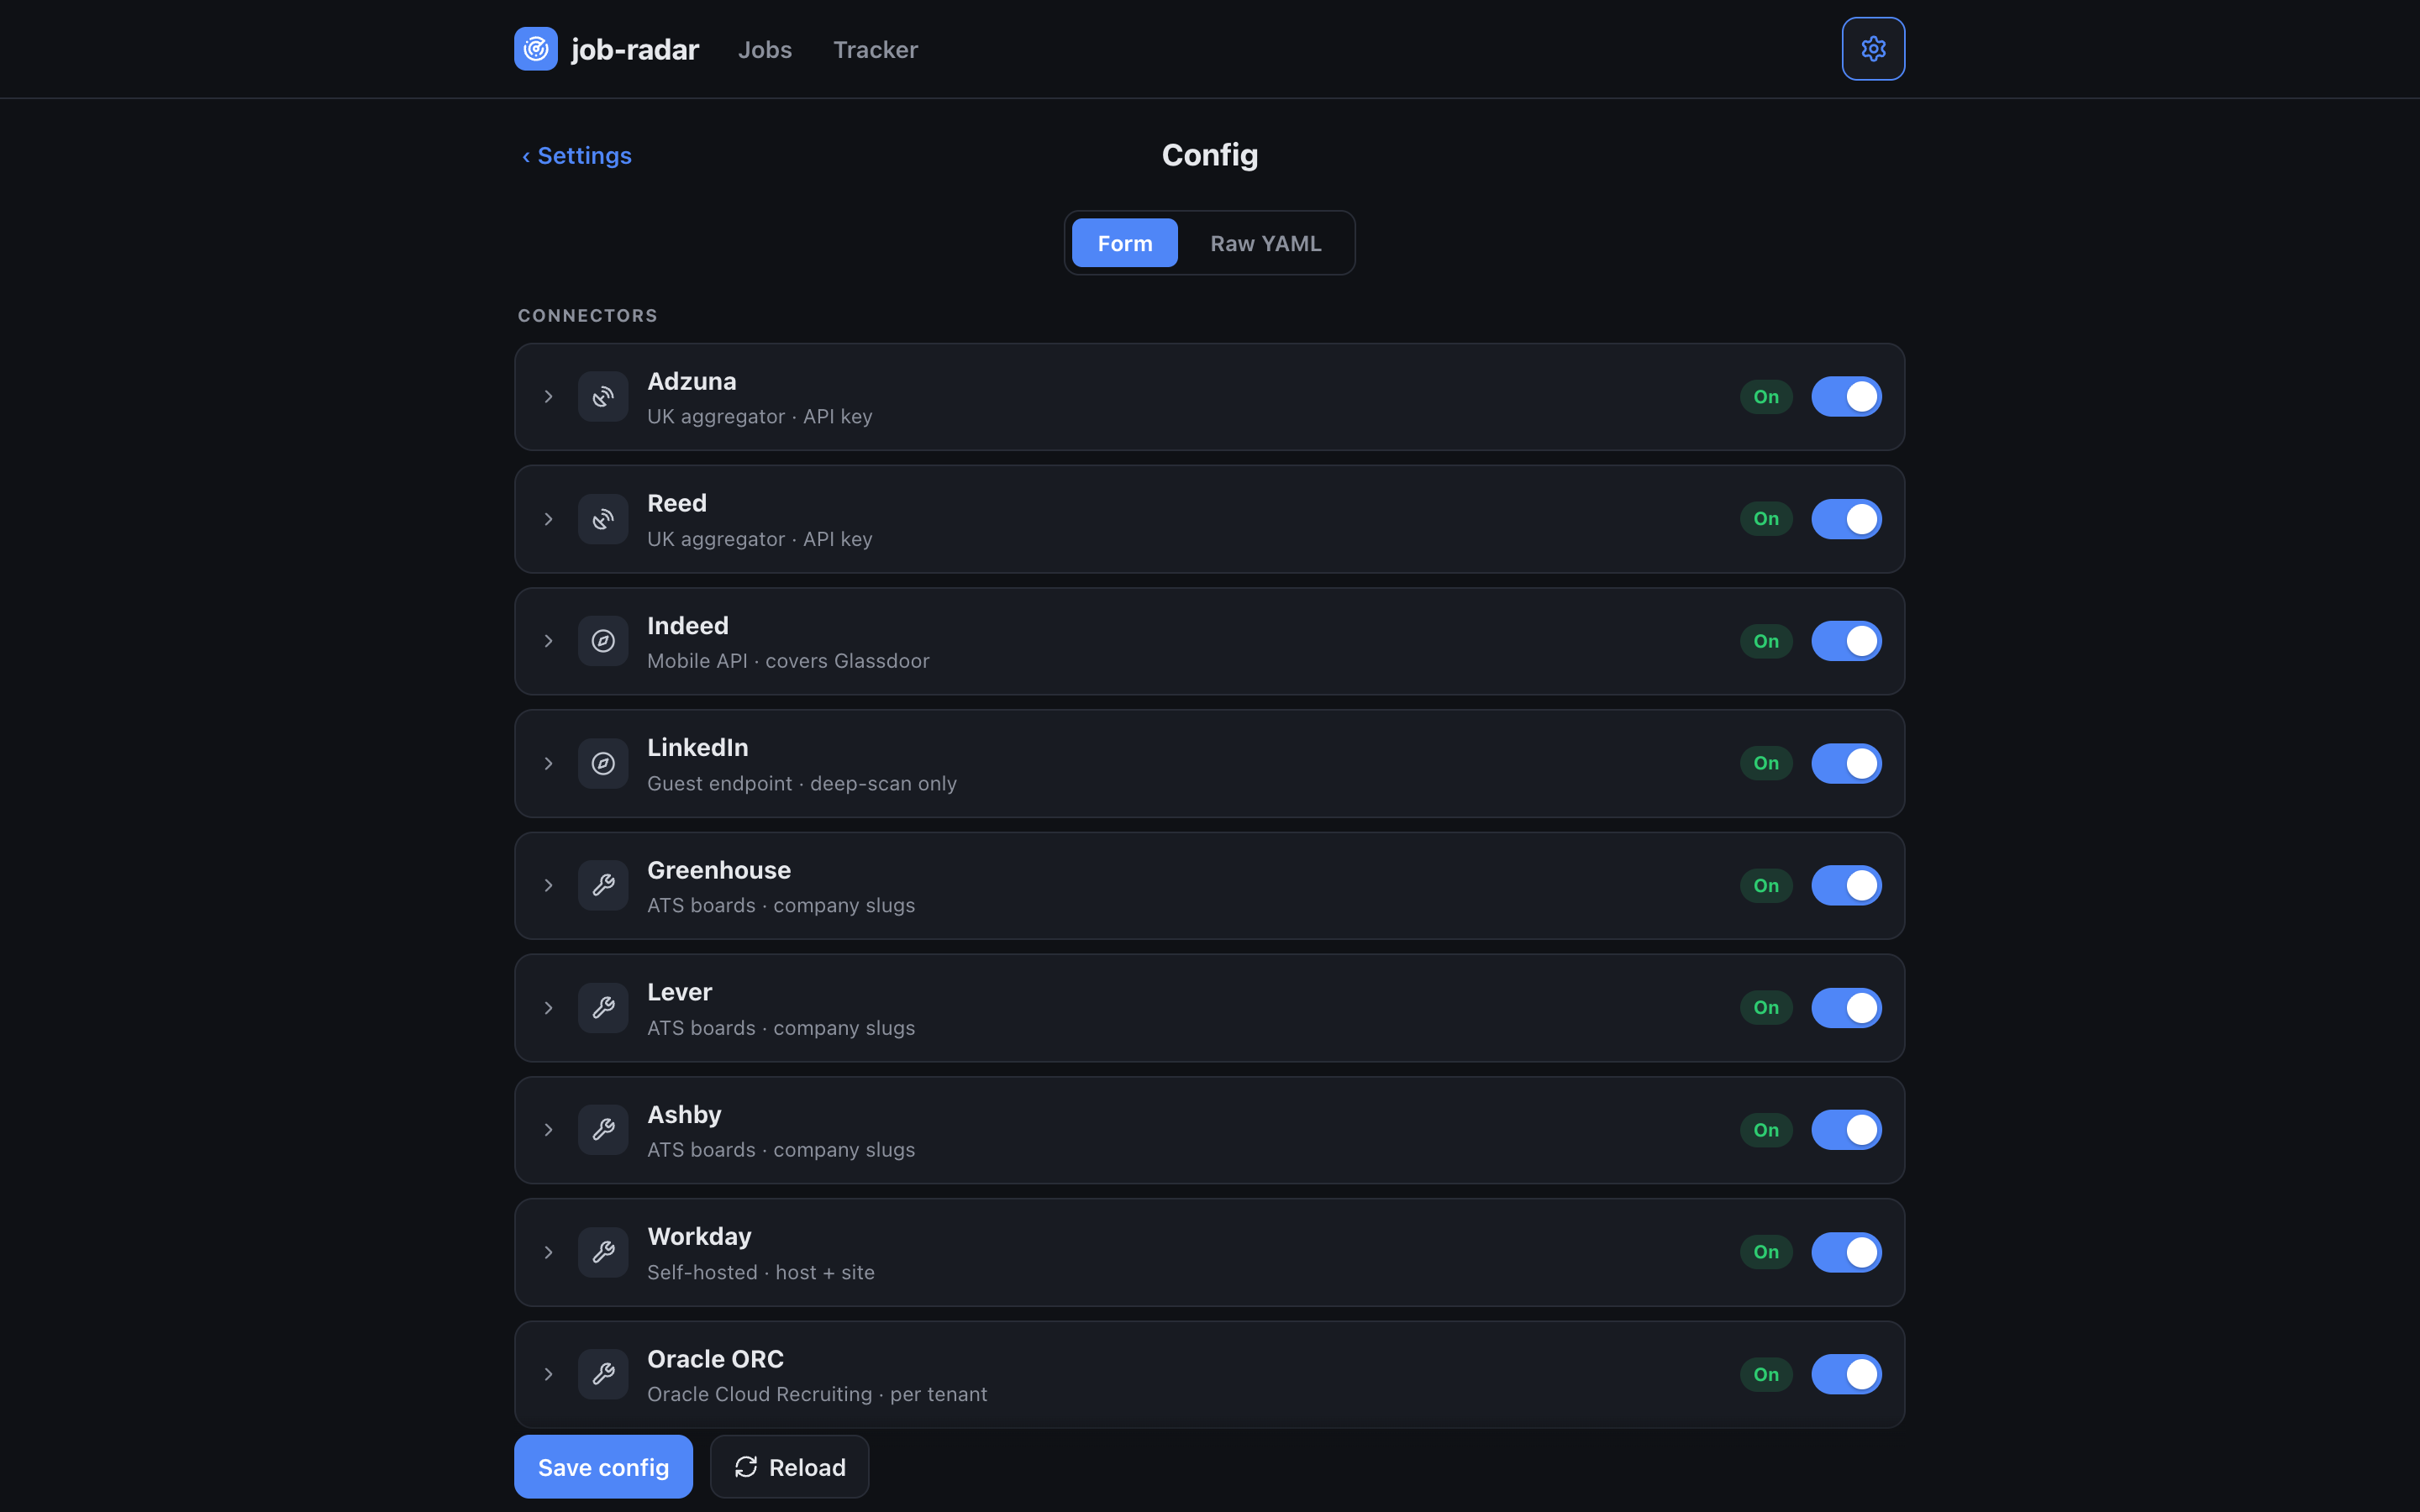
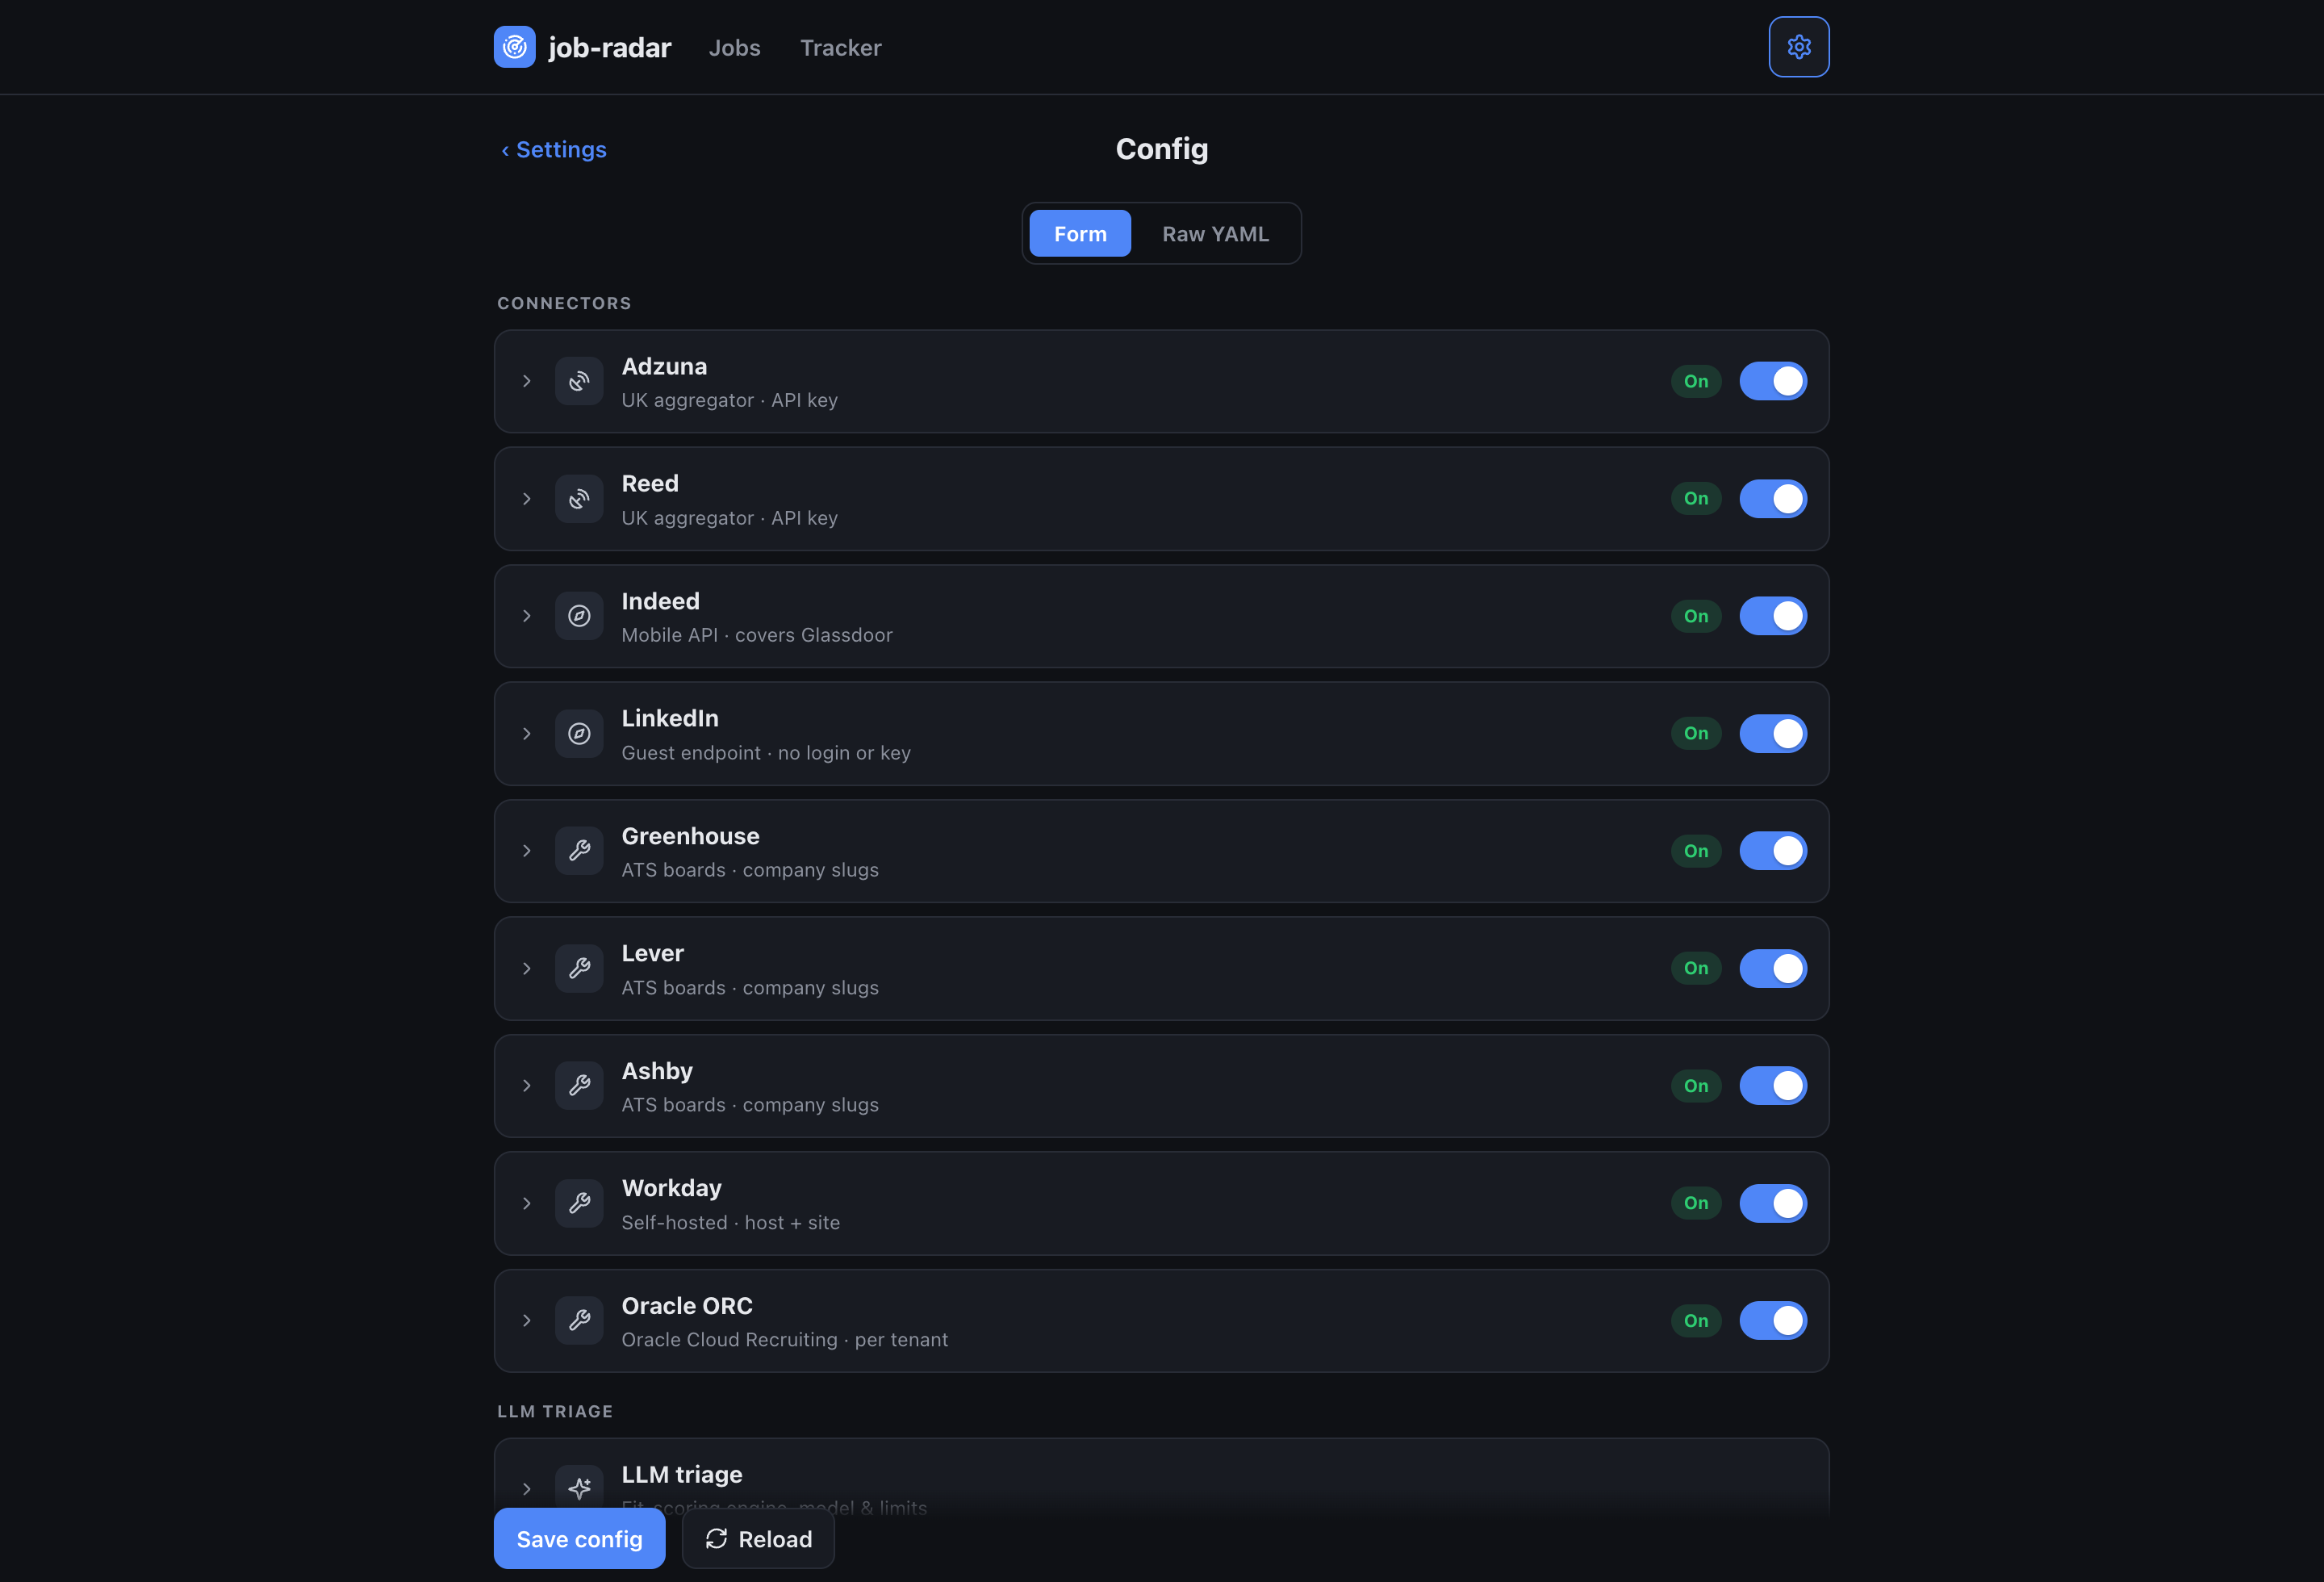
new README.md

diff --git a/scripts/seed_demo.py b/scripts/seed_demo.py
@@ -1,0 +1,140 @@
+"""Seed a throwaway DuckDB with synthetic jobs for README screenshots/GIFs.
+
+Fake companies + realistic DE roles only — NEVER real target companies, so nothing
+personal leaks into the public repo. The DB it writes (default data/demo.duckdb) is
+gitignored; only this script is committed. Regenerate any time:
+
+    PYTHONPATH=src python scripts/seed_demo.py            # -> data/demo.duckdb
+    PYTHONPATH=src python scripts/seed_demo.py /tmp/x.db  # custom path
+
+Then serve it:  JOB_RADAR_DB=data/demo.duckdb uv run job-serve
+"""
+
+from __future__ import annotations
+
+import json
+import sys
+from datetime import datetime, timedelta, timezone
+
+from job_radar.schema import make_job_id, make_vacancy_key
+from job_radar.store import Store
+
+NOW = datetime.now(timezone.utc)
+
+
+def ago(hours: float) -> datetime:
+    return NOW - timedelta(hours=hours)
+
+
+# (company, title, source, cities, sal_min, sal_max, remote, jd, status, score, reason, seen_h)
+# JDs carry real tech terms so the full-text search demo (spark/airflow/snowflake) lands.
+JOBS = [
+    ("Northwind Data", "Senior Data Engineer", "greenhouse", ["Edinburgh"], 65000, 80000, True,
+     "Build batch and streaming pipelines in PySpark on Databricks. Delta Lake, Airflow orchestration, "
+     "AWS (S3, Glue). You'll own data quality and CI/CD for our lakehouse.",
+     "new", 9.0, "Strong PySpark/Databricks/Delta match; Edinburgh + remote; mid-level scope.", 3),
+    ("Meridian Analytics", "Data Engineer (Spark)", "lever", ["Glasgow"], 55000, 70000, True,
+     "Spark SQL and PySpark at scale, Snowflake warehouse, dbt models, Airflow DAGs. Modern AWS stack.",
+     "new", 8.5, "Spark + Snowflake + Airflow; Glasgow; salary in band.", 5),
+    ("Cobalt Systems", "Analytics Engineer", "ashby", ["Remote"], 50000, 65000, True,
+     "dbt, Snowflake, and BI. Some Python. Own the semantic layer and metrics.",
+     "new", 6.5, "Adjacent (analytics eng, dbt-heavy); less core PySpark.", 8),
+    ("Halcyon Bank", "Senior Data Engineer", "workday", ["London", "Edinburgh"], 70000, 90000, False,
+     "PySpark, Spark SQL, Delta Lake on Databricks. Financial data at scale. Airflow, AWS, strong SQL.",
+     "new", 8.0, "Great tech match; London/Edinburgh; on-site leaning.", 6),
+    ("Brightloom", "Data Platform Engineer", "indeed", ["Manchester"], 60000, 75000, True,
+     "Kubernetes, Terraform, and Spark on EMR. Platform tooling for data teams. Python, Go.",
+     "new", 7.0, "Platform-leaning; Spark present; infra-heavy.", 12),
+    ("Verdant AI", "Machine Learning Data Engineer", "greenhouse", ["Remote"], 65000, 85000, True,
+     "Feature pipelines in PySpark, feature store, Airflow. Snowflake + Delta. Support ML training data.",
+     "viewed", 7.5, "ML-data blend; solid Spark/Airflow; remote.", 20),
+    ("Ashford Retail", "Data Engineer", "reed", ["Leeds"], 45000, 55000, False,
+     "SQL Server, SSIS, some Azure Data Factory. Reporting pipelines. Growing data team.",
+     "viewed", 4.0, "MS/SSIS stack; little Spark; below salary target.", 26),
+    ("Lumen Health", "Senior Data Engineer", "lever", ["Edinburgh", "Glasgow", "London"], 68000, 82000, True,
+     "PySpark, Databricks, Delta Lake, Airflow. Healthcare data at scale across the UK. AWS.",
+     "saved", 9.0, "Excellent match; multi-city incl. Edinburgh; remote-friendly.", 30),
+    ("Pinnacle Media", "Data Engineer (Airflow)", "ashby", ["London"], 58000, 72000, True,
+     "Airflow, Python, Snowflake, dbt. Event pipelines for media analytics. AWS.",
+     "saved", 7.5, "Airflow/Snowflake match; London; remote OK.", 34),
+    ("Orion Freight", "Big Data Engineer", "greenhouse", ["Birmingham"], 60000, 78000, True,
+     "Spark, Kafka streaming, Delta Lake. Logistics telemetry. Scala or Python.",
+     "applied", 8.0, "Spark + streaming; strong; applied.", 48),
+    ("Cascade Fintech", "Data Engineer", "workable", ["Edinburgh"], 62000, 75000, True,
+     "PySpark, Snowflake, dbt, Airflow. Payments data. Edinburgh HQ, hybrid.",
+     "applied", 8.5, "Core match; Edinburgh; hybrid.", 52),
+    ("Grayson Insurance", "Junior Data Engineer", "reed", ["Bristol"], 35000, 42000, False,
+     "Entry-level. SQL, Python basics, Power BI. Learn Spark on the job.",
+     "rejected", 2.5, "Junior/entry; below level and salary.", 70),
+    ("Tavistock Consulting", "Data Warehouse Developer", "adzuna", ["London"], 50000, 60000, False,
+     "Redshift, SQL, ETL. Warehouse modelling for clients. Some Python.",
+     "rejected", 3.5, "Warehouse-only; no Spark; consulting.", 74),
+    # --- unscored, fresh inbox (so 'run triage' has targets in the GIF) ---
+    ("Kestrel Labs", "Data Engineer", "linkedin", ["Remote"], 58000, 72000, True,
+     "PySpark, AWS, Airflow, Delta Lake. Product data pipelines. Fully remote UK.", "new", None, None, 2),
+    ("Solstice Energy", "Senior Data Engineer", "greenhouse", ["Aberdeen", "Edinburgh"], 66000, 80000, True,
+     "Spark, Databricks, Delta Lake. Energy sensor data. Scotland-based, remote-friendly.", "new", None, None, 4),
+    ("Foundry Retail", "Analytics Engineer", "lever", ["London"], 52000, 64000, True,
+     "dbt, Snowflake, Looker. Analytics engineering for e-commerce.", "new", None, None, 7),
+    ("Whitfield Gov", "Data Engineer", "indeed", ["Cardiff"], 48000, 58000, False,
+     "Azure, Databricks, PySpark. Public-sector data platform. Cardiff.", "new", None, None, 9),
+    ("Nimbus Cloud", "Platform Data Engineer", "ashby", ["Remote"], 63000, 78000, True,
+     "Spark on Kubernetes, Terraform, Airflow. Internal data platform.", "new", None, None, 11),
+    ("Ardent Trading", "Data Engineer (Snowflake)", "workable", ["London"], 60000, 74000, True,
+     "Snowflake, dbt, Python, Airflow. Trading analytics pipelines.", "new", None, None, 14),
+    # --- expired (history / generations demo) ---
+    ("Thornbury Group", "Data Engineer", "reed", ["Glasgow"], 55000, 68000, True,
+     "PySpark, AWS, Airflow. Retail analytics. (Older listing, since closed.)", "expired", 7.0,
+     "Good match but the posting has since closed.", 200),
+]
+
+
+def main(path: str = "data/demo.duckdb") -> None:
+    store = Store(path)
+    con = store.con
+    con.execute("DELETE FROM jobs")
+    con.execute("DELETE FROM scan_runs")
+    con.execute("DELETE FROM llm_runs")
+
+    for (company, title, source, cities, smin, smax, remote, jd, status, score, reason, seen_h) in JOBS:
+        url = f"https://example.com/{source}/{company.lower().replace(' ', '-')}/{title.lower().replace(' ', '-')}"
+        vkey = make_vacancy_key(company, title, url)
+        first_seen = ago(seen_h)
+        job_id = make_job_id(vkey, first_seen)
+        evaluated_at = ago(seen_h - 0.5) if score is not None else None
+        con.execute(
+            """INSERT INTO jobs (job_id, vacancy_key, source, company, title, url, location,
+                 locations, description, jd_full, posted_at, salary_min, salary_max, currency,
+                 remote, status, score, eval_reason, evaluated_at, engine, first_seen, last_seen, raw)
+               VALUES (?,?,?,?,?,?,?,?,?,?,?,?,?,?,?,?,?,?,?,?,?,?,?)""",
+            [job_id, vkey, source, company, title, url, cities[0], json.dumps(cities), jd, True,
+             first_seen.date(), float(smin), float(smax), "GBP", remote, status,
+             score, reason, evaluated_at, ("claude-cli" if score is not None else None),
+             first_seen, ago(max(0, seen_h - 1)), "{}"],
+        )
+
+    # A recent scan run + a triage ledger row so the funnel / Usage view aren't empty.
+    con.execute(
+        """INSERT INTO scan_runs (run_id, started_at, finished_at, source, found, new, dupes,
+             filtered, errors, error_detail)
+           VALUES ('demo', ?, ?, 'all', 214, 21, 173, 20, 0, NULL)""",
+        [ago(2), ago(2) + timedelta(seconds=48)],
+    )
+    con.execute(
+        """INSERT INTO llm_runs (run_id, stage, model, engine, started_at, finished_at, jobs,
+             scored, errors, input_tokens, output_tokens, cache_read_tokens, cache_write_tokens,
+             cost_usd, budget_hit, note)
+           VALUES ('demo', 'triage', 'claude-cli', 'claude-cli', ?, ?, 14, 14, 0,
+             28000, 1900, 0, 0, 0.0, FALSE, 'Pro subscription — no per-token cost')""",
+        [ago(1), ago(1) + timedelta(seconds=95)],
+    )
+
+    total = con.execute("SELECT count(*) FROM jobs").fetchone()[0]
+    by_status = con.execute("SELECT status, count(*) FROM jobs GROUP BY status ORDER BY 2 DESC").fetchall()
+    store.close()
+    print(f"Seeded {total} jobs into {path}")
+    print("  " + "  ".join(f"{s}={n}" for s, n in by_status))
+
+
+if __name__ == "__main__":
+    main(sys.argv[1] if len(sys.argv) > 1 else "data/demo.duckdb")

diff --git a/src/job_radar/dashboard.py b/src/job_radar/dashboard.py
@@ -968,7 +968,7 @@ const CONNECTORS = [
   {id:"indeed", name:"Indeed", desc:"Mobile API · covers Glassdoor", icon:"compass", locs:true,
    lists:[{key:"queries", label:"Search queries", ph:"add query…"}],
    scalars:[["max_pages","Max pages / location"],["hours_old","Hours old"],["results_per_page","Results / page"]]},
-  {id:"linkedin", name:"LinkedIn", desc:"Guest endpoint · deep-scan only", icon:"compass", locs:true,
+  {id:"linkedin", name:"LinkedIn", desc:"Guest endpoint · no login or key", icon:"compass", locs:true,
    lists:[{key:"queries", label:"Search queries (OR-joined per location)", ph:"add query…"},
           {key:"proxies", label:"Proxies (host:port or user:pass@host:port; blank = direct)", ph:"add proxy…"}],
    scalars:[["max_pages","Max pages / location"],["hours_old","Hours old"],["request_delay","Request delay (s)"]]},

diff --git a/README.md b/README.md
@@ -18,21 +18,24 @@ A job search split into two tiers by what each one *should* cost:
 
 ## Screenshots
 
-The dashboard is phone-first and talks to the API over a Cloudflare Tunnel. Everything below runs on
-**synthetic demo data** (`scripts/seed_demo.py` — fake companies, real tech stacks), not live listings.
+The dashboard is phone-first and talks to the API over HTTP. Everything below runs on **synthetic demo
+data** (`scripts/seed_demo.py` — fake companies, real tech stacks), not live listings.
 
-**The Jobs inbox** — deterministic discovery fills the list; the optional LLM triage adds the 0–10 fit
-badge and one-line reason. One row per vacancy: the **London +1** chip means the same posting was found in
-several cities and collapsed to a single row.
+### Find a job — full-text JD search
 
-<img src="assets/dashboard-inbox.png" width="100%" alt="Scored inbox — colour-coded fit badges, salary, source, multi-city chips">
-
-### Full-text JD search
-
-Type `databricks` — it matches roles whose **description** mentions it even when the title doesn't, so the
-list narrows from 13 to 4.
+The inbox is deterministic discovery; each row is one vacancy (the **London +1** chip means the same
+posting was found in several cities and collapsed). Type `databricks` and it matches roles whose
+**description** mentions it even when the title doesn't — the list narrows from 13 to 4.
 
 <img src="assets/dashboard-search.gif" width="100%" alt="Typing databricks filters the inbox from 13 to 4 matches">
+
+### Triage — pick jobs, they queue, scores land
+
+The optional LLM pass scores each pending job 0–10 against your rubric. Hit **Analyze** (or the ✨ on a
+single card); jobs go into a queue that drains with live progress, and the fit badge + one-line reason
+fill in as each completes.
+
+<img src="assets/dashboard-analyze.gif" width="100%" alt="Clicking Analyze queues jobs and fit-score badges fill in as scoring completes">
 
 ### Track a role through the pipeline
 
@@ -41,7 +44,12 @@ Opening a job auto-marks it viewed.
 
 <img src="assets/dashboard-tracker-move.gif" width="100%" alt="A cursor clicks Applied and the card moves to the Applied column">
 
-<img src="assets/dashboard-tracker.png" width="100%" alt="Tracker kanban board — Saved, Applied, Rejected columns">
+### Two scan depths
+
+Every scan honours a window. **Scan now** pulls only the recent window (`recent_days`) — cheap, fresh-only,
+for the regular schedule. **Deep scan** pulls the full window — for the first load or a weekly top-up.
+
+<img src="assets/dashboard-scan.png" width="440" alt="Scan menu: Scan now (recent window) vs Deep scan (full window)">
 
 ### Config over the wire
 
@@ -54,7 +62,7 @@ applied on the next scan, no redeploy.
 
 The whole dashboard is responsive, with a bottom nav bar.
 
-<img src="assets/dashboard-phone.png" width="300" alt="Phone view of the inbox">
+<p align="center"><img src="assets/dashboard-phone.png" width="300" alt="Phone view of the inbox"></p>
 
 ## Features
 
@@ -104,11 +112,10 @@ The whole dashboard is responsive, with a bottom nav bar.
   `/analyze` (run triage), `/funnel`, `/scan`, with inline buttons.
 
 **Sync & ops**
-- **HTTP API** — bearer-token, over a Cloudflare Tunnel. The dashboard and Telegram bot are its clients
-  (`/api/jobs`, `/api/funnel`, `/api/scan`, `/api/analyze`, `/api/config`); the server's DuckDB is the
-  single source of truth.
+- **HTTP API** — bearer-token. The dashboard and Telegram bot are its clients (`/api/jobs`, `/api/funnel`,
+  `/api/scan`, `/api/analyze`, `/api/config`); the server's DuckDB is the single source of truth.
 - **Config over the wire** — `GET/POST /api/config`, stored on the data volume, never in git.
-- **Deployed via Portainer GitOps** from this public repo; secrets are stack env vars.
+- **One Docker service** — deploy on any container host; secrets come from the environment.
 
 ## Deployment shape
 
@@ -122,13 +129,13 @@ flowchart LR
     TRIAGE["LLM triage (opt-in)<br/>claude-cli · Pro sub"] -.->|score + reason| DB
     DB --> EP["/api/jobs · /api/funnel<br/>/api/config · /api/analyze"]
   end
-  DASH["📱 Dashboard / Telegram"] <==>|"HTTPS · Cloudflare Tunnel · bearer token"| EP
+  DASH["📱 Dashboard / Telegram"] <==>|"HTTPS · bearer token"| EP
 ```
 
 One process owns the database — it serves the API/dashboard **and** runs both the scheduled and
 on-demand scans, so there's a single DB writer and no lock fights. Discovery needs no login and no human,
-so it runs unattended on the server. Deployed via **Portainer GitOps** from this public repo; secrets are
-Portainer stack env vars and `config.yml` is edited through `/api/config` — neither lives in git.
+so it runs unattended. Secrets come from the environment and `config.yml` is edited through `/api/config`
+— neither lives in git.
 
 ## Quick start (local)
 
@@ -148,10 +155,11 @@ uv run job-serve                      # serve API + dashboard, schedule + on-dem
 docker compose up -d --build          # single service; reads secrets from the environment
 ```
 
-On the server this is a **Portainer GitOps** stack pointed at this repo: secrets are Portainer stack
-env vars (`ADZUNA_*`, `REED_API_KEY`, `JOB_RADAR_API_TOKEN`, `SCAN_HOURS`, `TZ`, optional
-`TELEGRAM_*`) and `config.yml` / `rubric.md` are edited through the API (stored on the data volume,
-never in git). Point your own cloudflared tunnel at the published port.
+Runs anywhere Docker does — a VPS, a container host, a home server. Provide secrets as env vars
+(`ADZUNA_*`, `REED_API_KEY`, `JOB_RADAR_API_TOKEN`, `SCAN_HOURS`, `TZ`, optional `TELEGRAM_*`);
+`config.yml` / `rubric.md` are edited through the API and stored on the data volume, never in git.
+To reach the dashboard from your phone, put the published port behind any reverse proxy or tunnel you
+like. *(I run it as a Portainer GitOps stack behind a Cloudflare Tunnel — one example, not a requirement.)*
 
 **Triage auth (optional):** the image also bundles Node + the Claude Code CLI. To run on-server triage
 on your Pro subscription, mint a token once with `claude setup-token` and set `CLAUDE_CODE_OAUTH_TOKEN`
@@ -167,9 +175,9 @@ both unset to run discovery-only.
 | Indeed | Indeed's mobile API — also covers Glassdoor (shared index); no login/key |
 | LinkedIn | Public **guest** jobs endpoint (no login/cookie/key), only per-IP rate limiting; opt-in |
 | Greenhouse / Lever / Ashby | UK + global companies (board slugs; vanity-domain boards work too) |
-| Workable | Companies on Workable (e.g. Starling, Hugging Face) |
-| Workday | Self-hosted enterprise sites (`{host, site}` per tenant — e.g. Live Nation, CrowdStrike) |
-| Oracle ORC | Self-hosted CandidateExperience sites (e.g. JPMorgan, Goldman Sachs, Bank of England) |
+| Workable | Companies hosting their board on Workable |
+| Workday | Enterprises self-hosting Workday (`{host, site}` per tenant) |
+| Oracle ORC | Enterprises on Oracle Cloud Recruiting (self-hosted CandidateExperience sites) |
 
 Adding a source is one file + one registry line. The connectors target sources with a clean HTTP/JSON
 surface; anything without one (bespoke portals, one-off boards) is out of scope by design.